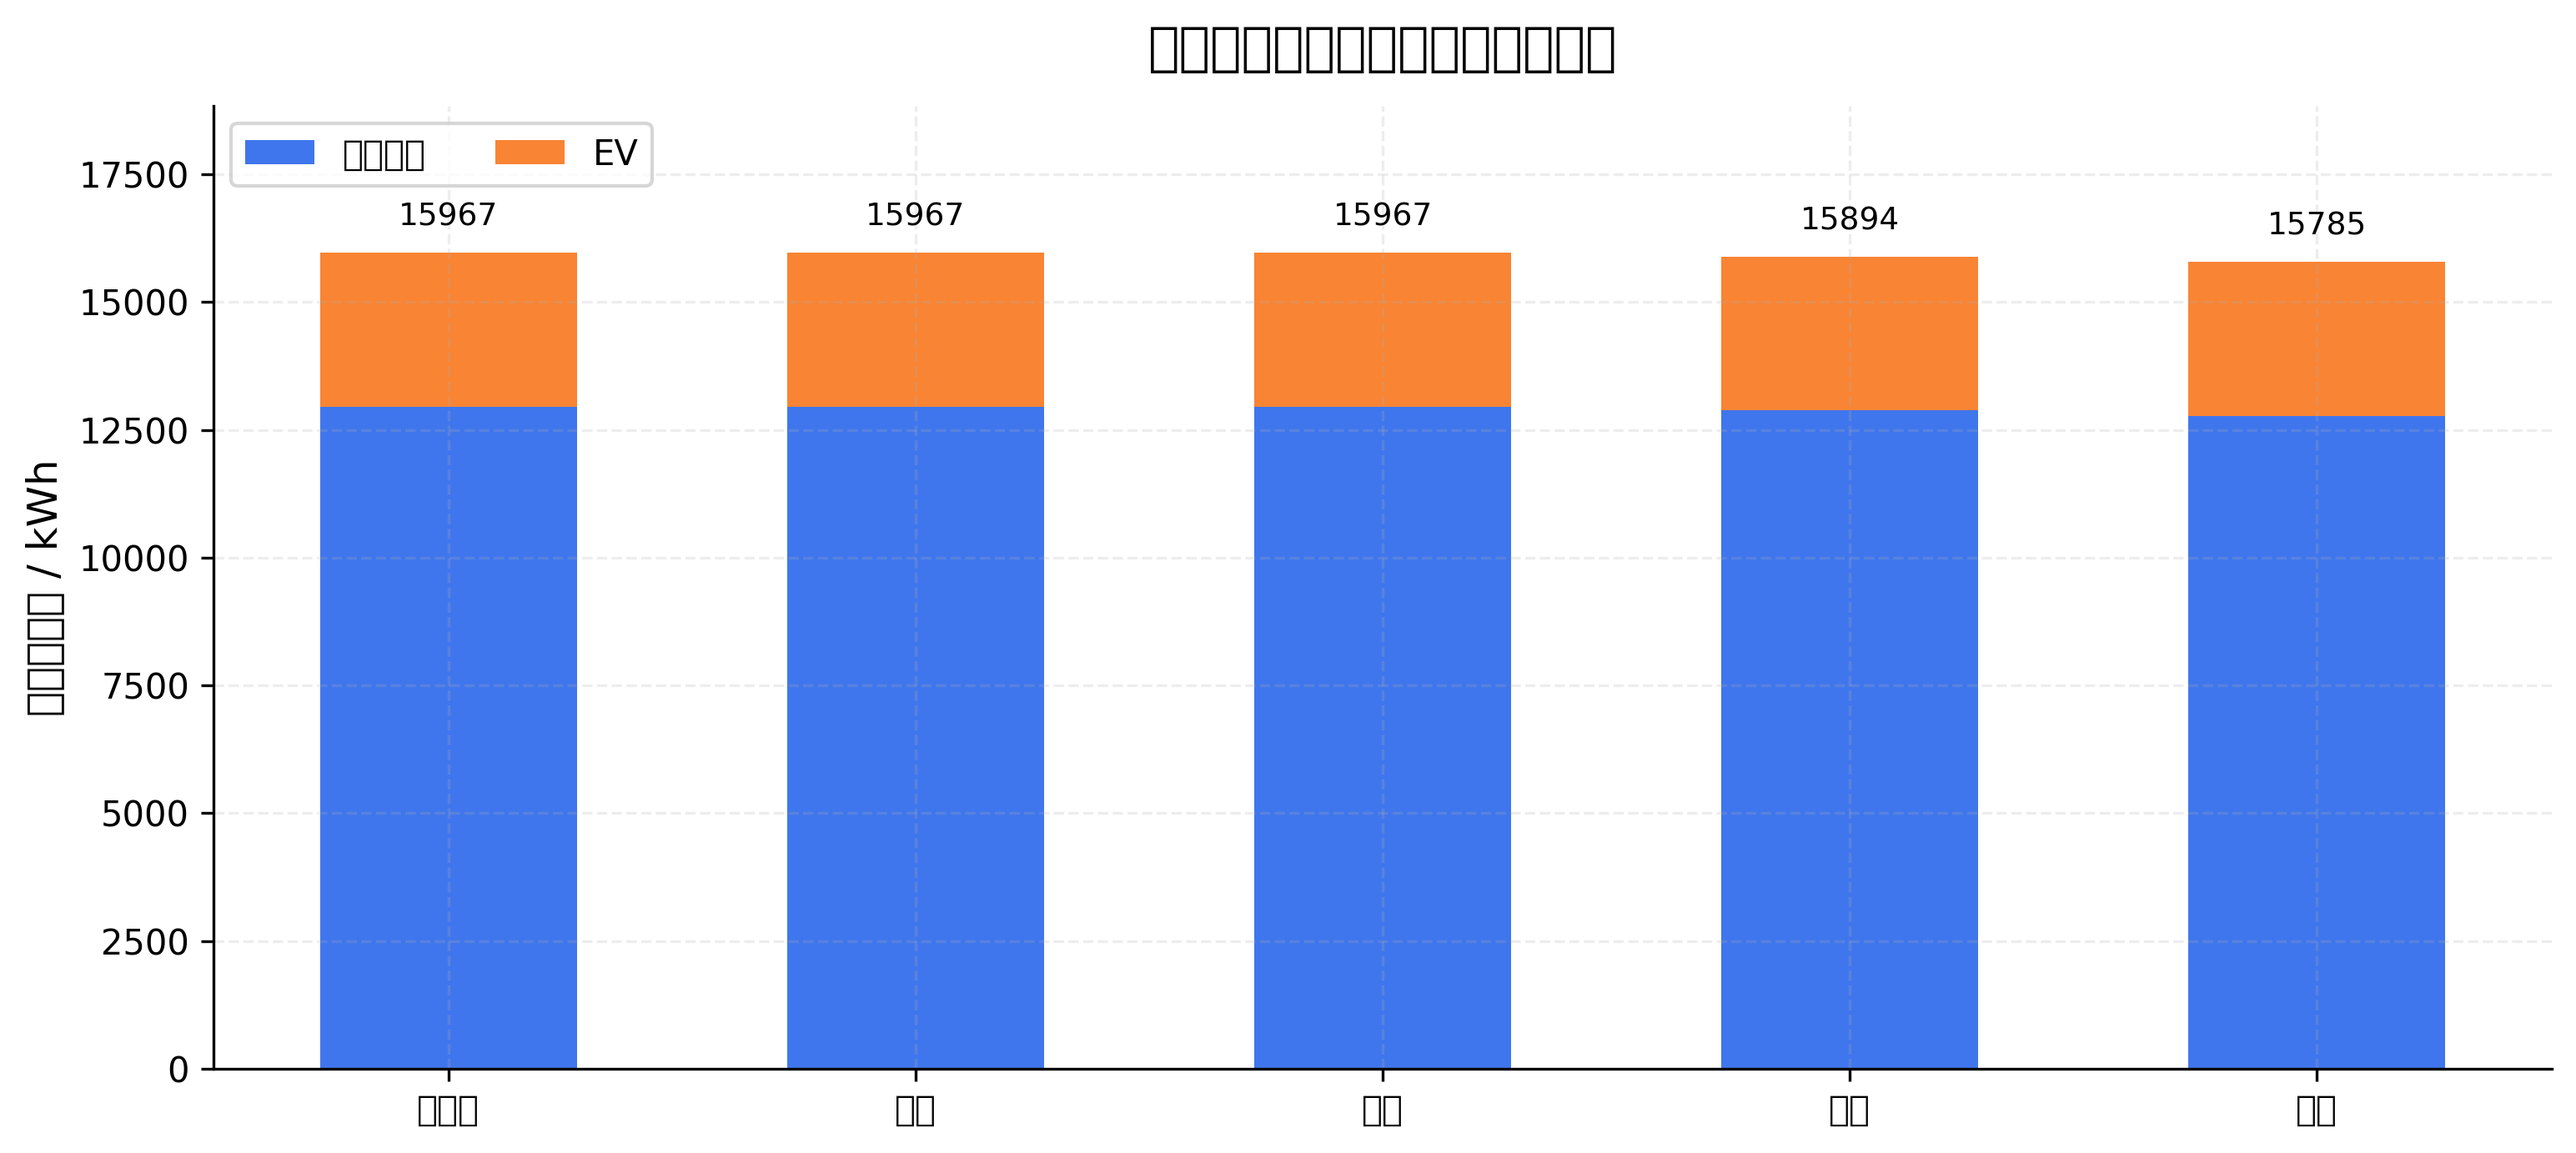
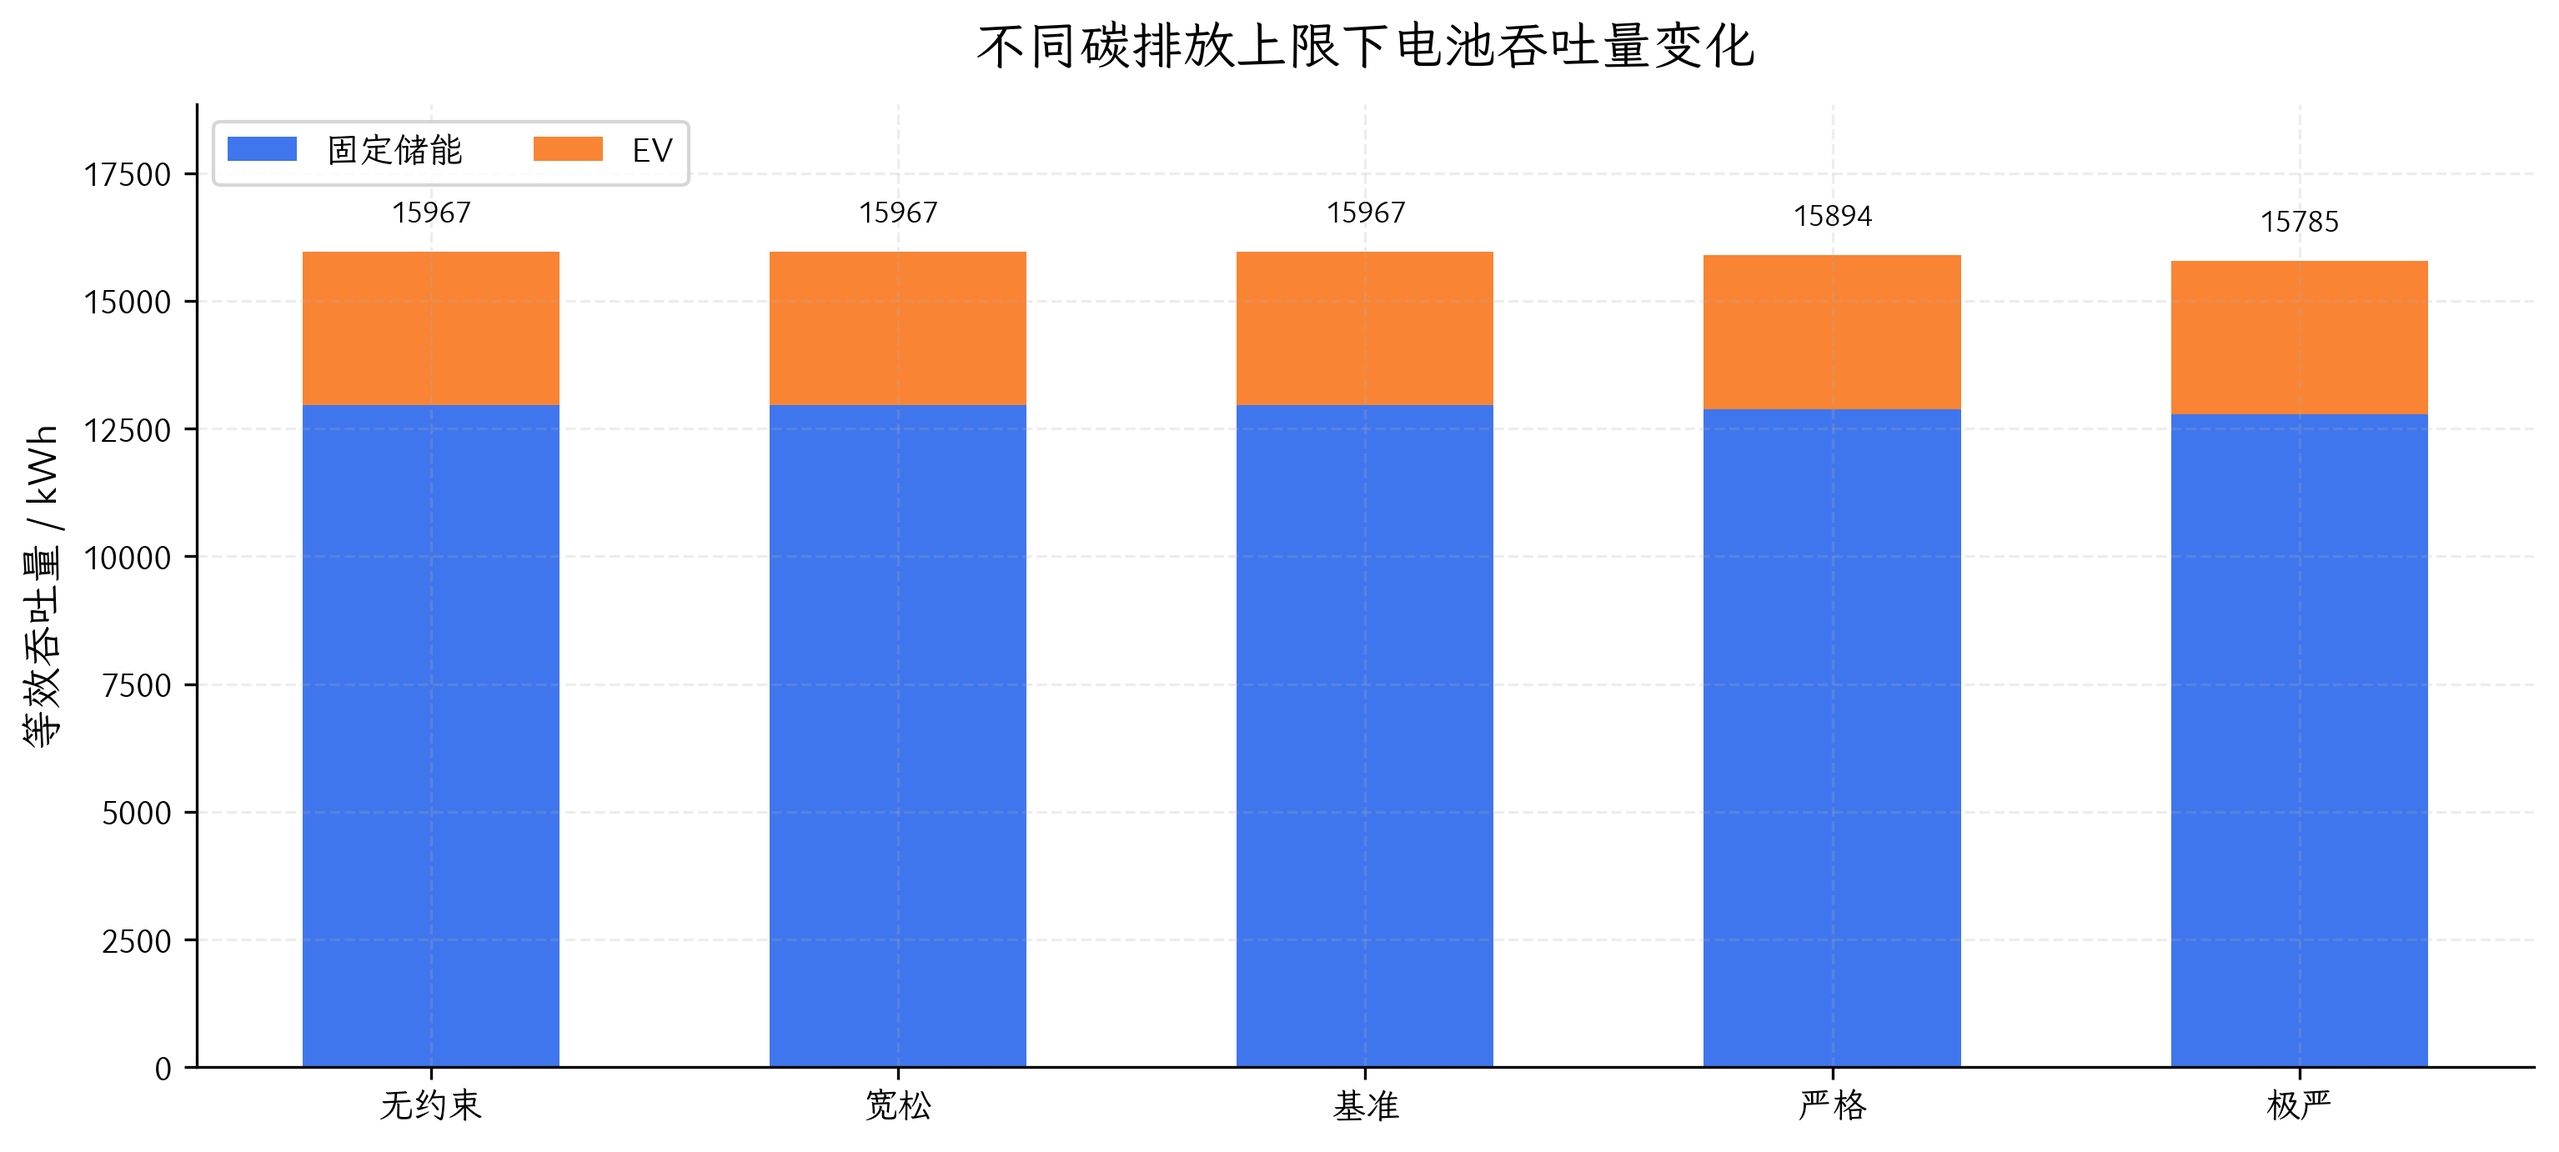
字体修改

diff --git a/B/problem3/scripts/solve_problem3.py b/B/problem3/scripts/solve_problem3.py
@@ -7,7 +7,6 @@ import sys
 from pathlib import Path
 
 import matplotlib as mpl
-import matplotlib.font_manager as fm
 import matplotlib.pyplot as plt
 import numpy as np
 import pandas as pd
@@ -26,22 +25,10 @@ from carbon_aware_strategy import build_and_solve_carbon_aware  # noqa: E402
 # ------------------------------
 # 中文字体和 matplotlib 样式
 # ------------------------------
-# 尝试加载中文字体，若不可用则回退到 sans-serif
-_chinese_font = "sans-serif"
-for _candidate in [
-    "/usr/share/fonts/google-noto-sans-cjk-vf-fonts/NotoSansCJK-VF.ttc",
-    "/usr/share/fonts/opentype/noto/NotoSansCJK-Regular.ttc",
-]:
-    try:
-        _chinese_font = fm.FontProperties(fname=_candidate).get_name()
-        break
-    except Exception:
-        continue
+mpl.rcParams['font.sans-serif'] = ['LXGW Bright']
+mpl.rcParams['axes.unicode_minus'] = False
 
 mpl.rcParams.update({
-    "font.family": _chinese_font,
-    "font.sans-serif": [_chinese_font, "DejaVu Sans", "sans-serif"],
-    "axes.unicode_minus": False,
     "axes.spines.top": False,
     "axes.spines.right": False,
     "axes.grid": True,
@@ -190,7 +177,7 @@ def _plot_q1_results(metrics: pd.DataFrame, schedules: dict[str, pd.DataFrame], 
     ax.set_xticks(x)
     ax.set_xticklabels(labels)
     ax.set_ylabel("碳排放 / kg CO2")
-    ax.set_title("不同碳排放上限下的实际碳排放", fontweight="bold", pad=12)
+    ax.set_title("不同碳排放上限下的实际碳排放", pad=12)
     # annotate
     ymax = float(metrics["total_carbon_kg"].max()) * 1.18
     ax.set_ylim(0, ymax)
@@ -207,7 +194,7 @@ def _plot_q1_results(metrics: pd.DataFrame, schedules: dict[str, pd.DataFrame], 
     ax1.set_xticks(x)
     ax1.set_xticklabels(labels)
     ax1.set_ylabel("购电总量 / kWh")
-    ax1.set_title("不同碳排放上限下外网购电行为变化", fontweight="bold", pad=12)
+    ax1.set_title("不同碳排放上限下外网购电行为变化", pad=12)
     ax2 = ax1.twinx()
     ax2.plot(x, metrics["peak_grid_import_kw"], color="#DC2626", marker="D", linewidth=1.8, label="峰值购电")
     ax2.set_ylabel("峰值购电功率 / kW", color="#DC2626")
@@ -226,7 +213,7 @@ def _plot_q1_results(metrics: pd.DataFrame, schedules: dict[str, pd.DataFrame], 
     ax.set_xticks(x)
     ax.set_xticklabels(labels)
     ax.set_ylabel("等效吞吐量 / kWh")
-    ax.set_title("不同碳排放上限下电池吞吐量变化", fontweight="bold", pad=12)
+    ax.set_title("不同碳排放上限下电池吞吐量变化", pad=12)
     ax.legend(loc="upper left", frameon=True, ncol=2)
     totals = metrics["battery_throughput_kwh"] + metrics["ev_throughput_kwh"]
     ax.set_ylim(0, float(totals.max()) * 1.18)
@@ -244,7 +231,7 @@ def _plot_q1_results(metrics: pd.DataFrame, schedules: dict[str, pd.DataFrame], 
     ax.set_xticks(x)
     ax.set_xticklabels(labels)
     ax.set_ylabel("成本 / 元")
-    ax.set_title("不同碳排放上限下成本构成变化", fontweight="bold", pad=12)
+    ax.set_title("不同碳排放上限下成本构成变化", pad=12)
     ax.legend(loc="upper left", frameon=True, ncol=3)
     totals = metrics["operation_cost_cny"] + metrics["total_degradation_cost_cny"]
     ax.set_ylim(0, float(totals.max()) * 1.18)
@@ -332,7 +319,7 @@ def _plot_q2_results(metrics: pd.DataFrame, fig_dir: Path):
     ax.set_xticklabels([f"{p:.0f}" for p in prices])
     ax.set_xlabel("碳交易价格 / (元/吨 CO2)")
     ax.set_ylabel("碳排放 / kg CO2")
-    ax.set_title("不同碳交易价格下的总碳排放量", fontweight="bold", pad=12)
+    ax.set_title("不同碳交易价格下的总碳排放量", pad=12)
     ymax = float(metrics["total_carbon_kg"].max()) * 1.18
     ax.set_ylim(0, ymax)
     for i, v in enumerate(metrics["total_carbon_kg"]):
@@ -348,7 +335,7 @@ def _plot_q2_results(metrics: pd.DataFrame, fig_dir: Path):
     ax1.set_xticklabels([f"{p:.0f}" for p in prices])
     ax1.set_xlabel("碳交易价格 / (元/吨 CO2)")
     ax1.set_ylabel("购电总量 / kWh")
-    ax1.set_title("不同碳价下外网购电行为变化", fontweight="bold", pad=12)
+    ax1.set_title("不同碳价下外网购电行为变化", pad=12)
     ax2 = ax1.twinx()
     ax2.plot(x, metrics["peak_grid_import_kw"], color="#DC2626", marker="D", linewidth=1.8, label="峰值购电")
     ax2.set_ylabel("峰值购电功率 / kW", color="#DC2626")
@@ -368,7 +355,7 @@ def _plot_q2_results(metrics: pd.DataFrame, fig_dir: Path):
     ax.set_xticklabels([f"{p:.0f}" for p in prices])
     ax.set_xlabel("碳交易价格 / (元/吨 CO2)")
     ax.set_ylabel("等效吞吐量 / kWh")
-    ax.set_title("不同碳价下固定储能和 EV 吞吐量变化", fontweight="bold", pad=12)
+    ax.set_title("不同碳价下固定储能和 EV 吞吐量变化", pad=12)
     ax.legend(loc="upper left", frameon=True, ncol=2)
     totals = metrics["battery_throughput_kwh"] + metrics["ev_throughput_kwh"]
     ax.set_ylim(0, float(totals.max()) * 1.18)
@@ -389,7 +376,7 @@ def _plot_q2_results(metrics: pd.DataFrame, fig_dir: Path):
     ax.set_xticklabels([f"{p:.0f}" for p in prices])
     ax.set_xlabel("碳交易价格 / (元/吨 CO2)")
     ax.set_ylabel("成本 / 元")
-    ax.set_title("不同碳价下综合成本构成变化", fontweight="bold", pad=12)
+    ax.set_title("不同碳价下综合成本构成变化", pad=12)
     ax.legend(loc="upper left", frameon=True, ncol=3)
     totals = metrics["total_comprehensive_cost_cny"]
     ax.set_ylim(0, float(totals.max()) * 1.18)
@@ -482,7 +469,7 @@ def _plot_joint_results(metrics: pd.DataFrame, fig_dir: Path, cap_kg: float):
     ax.set_xticklabels([f"{p:.0f}" for p in prices])
     ax.set_xlabel("碳交易价格 / (元/吨 CO2)")
     ax.set_ylabel("碳排放 / kg CO2")
-    ax.set_title("碳交易机制下：碳排放 vs 碳价（cap + price 同时存在）", fontweight="bold", pad=12)
+    ax.set_title("碳交易机制下：碳排放 vs 碳价（cap + price 同时存在）", pad=12)
     ax.legend(loc="upper right", frameon=True)
     ymin = min(float(metrics["total_carbon_kg"].min()), cap_kg) * 0.95
     ymax = max(float(metrics["total_carbon_kg"].max()), cap_kg) * 1.1
@@ -511,7 +498,7 @@ def _plot_joint_results(metrics: pd.DataFrame, fig_dir: Path, cap_kg: float):
     ax.set_xticklabels([f"{p:.0f}" for p in prices])
     ax.set_xlabel("碳交易价格 / (元/吨 CO2)")
     ax.set_ylabel("碳交易净成本 / 元（负值=出售获利）")
-    ax.set_title(f"碳交易净支出（配额={cap_kg:.0f} kg）", fontweight="bold", pad=12)
+    ax.set_title(f"碳交易净支出（配额={cap_kg:.0f} kg）", pad=12)
     yabs = max(abs(float(metrics["carbon_trading_cost_cny"].min())),
                abs(float(metrics["carbon_trading_cost_cny"].max()))) * 1.3
     ax.set_ylim(-yabs, yabs)
@@ -539,7 +526,7 @@ def _plot_joint_results(metrics: pd.DataFrame, fig_dir: Path, cap_kg: float):
     ax.set_xticklabels([f"{p:.0f}" for p in prices])
     ax.set_xlabel("碳交易价格 / (元/吨 CO2)")
     ax.set_ylabel("成本 / 元")
-    ax.set_title(f"碳交易机制下综合成本构成（配额={cap_kg:.0f} kg）", fontweight="bold", pad=12)
+    ax.set_title(f"碳交易机制下综合成本构成（配额={cap_kg:.0f} kg）", pad=12)
     handles, labels = ax.get_legend_handles_labels()
     by_label = dict(zip(labels, handles))
     ax.legend(by_label.values(), by_label.keys(), loc="upper left", frameon=True, ncol=4)
@@ -616,7 +603,7 @@ def _plot_pareto_frontier(pareto_df: pd.DataFrame, fig_dir: Path, baseline: floa
 
     ax.set_xlabel("碳排放 / kg CO2")
     ax.set_ylabel("成本 / 元")
-    ax.set_title("Pareto 前沿：经济性 vs 碳排放", fontweight="bold", pad=12)
+    ax.set_title("Pareto 前沿：经济性 vs 碳排放", pad=12)
     ax.legend(loc="upper left", frameon=True, ncol=2)
     ax.invert_xaxis()
     fig.subplots_adjust(left=0.1, right=0.98, top=0.88, bottom=0.15)
@@ -635,7 +622,7 @@ def _plot_pareto_frontier(pareto_df: pd.DataFrame, fig_dir: Path, baseline: floa
                 linewidth=1.8, markersize=7)
         ax.set_xlabel("碳排放 / kg CO2")
         ax.set_ylabel("边际减排成本 / (元/吨 CO2)")
-        ax.set_title("边际减排成本曲线（碳约束的影子价格）", fontweight="bold", pad=12)
+        ax.set_title("边际减排成本曲线（碳约束的影子价格）", pad=12)
         ax.axhline(100, color="#6B7280", linewidth=1, linestyle=":", alpha=0.7,
                    label="中国碳市场参考价 100 元/吨")
         ax.axhline(500, color="#F97316", linewidth=1, linestyle=":", alpha=0.7,
